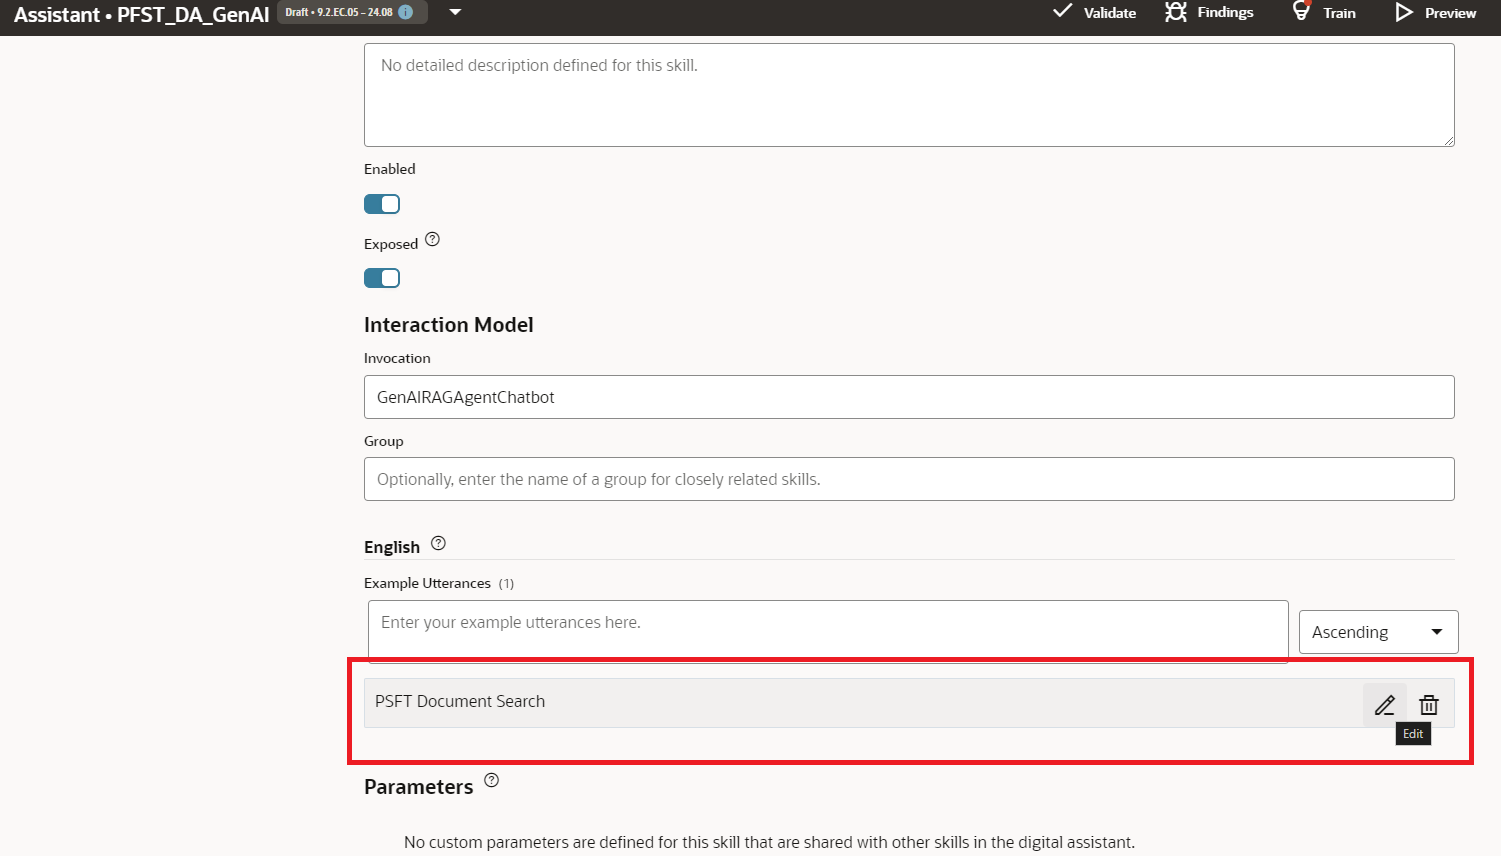
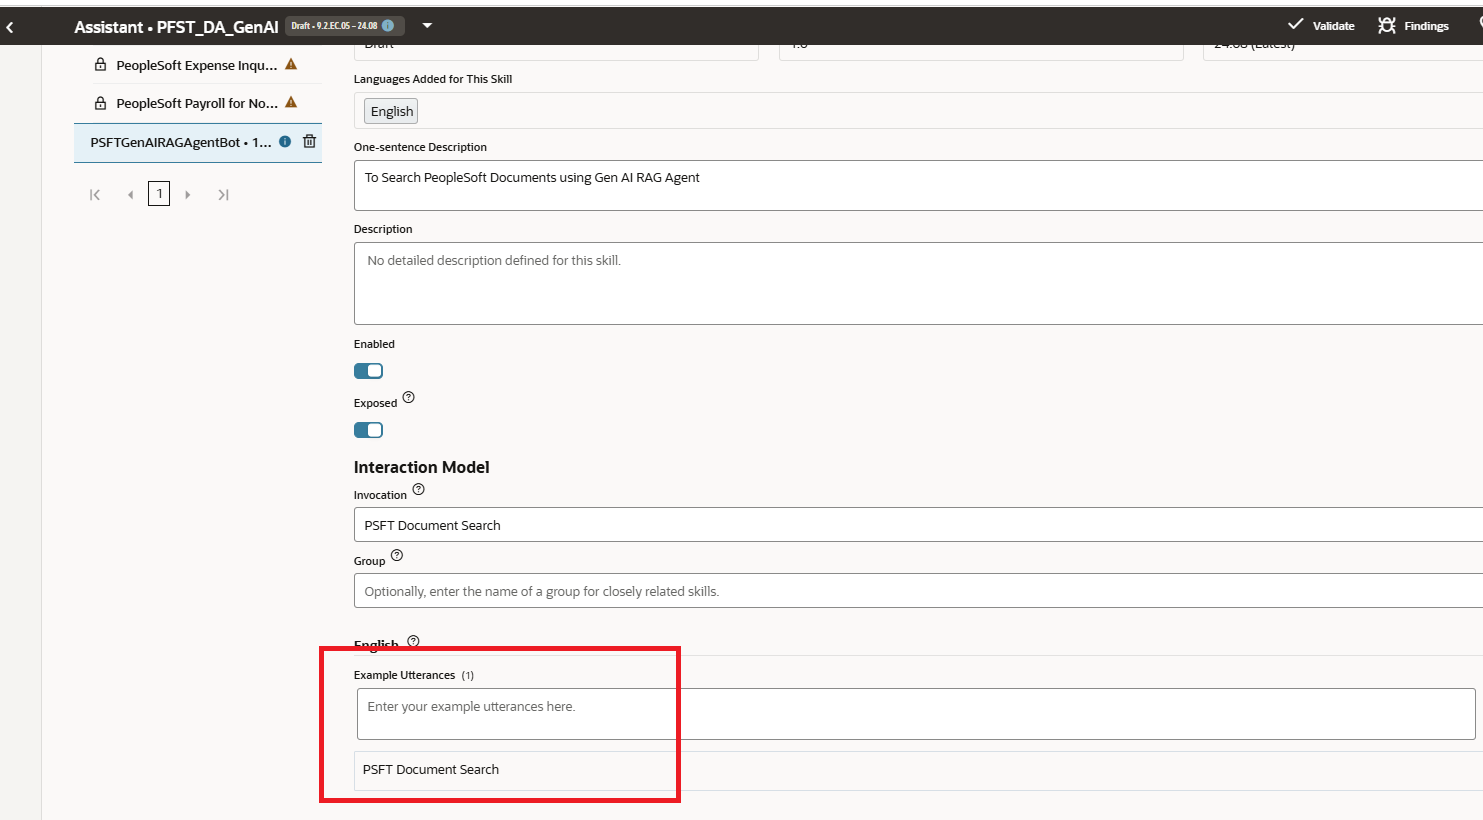
oda images

diff --git a/picaso-genai-oda/oda/oda.md b/picaso-genai-oda/oda/oda.md
@@ -194,7 +194,8 @@ This task involves creating REST service which will be used by ODA to connect to
 
     ![flow update citations](images/picaso_da3.png)
 
-3. Modify Utterances for new Skill (Note: Utterance must be: PSFT Document Search)
+3. Make sure the Utterances of new Skill as shown below:
+   (Note: Utterance must be: PSFT Document Search)
 
     ![flow update citations](images/picaso_da2.2.png)
 
